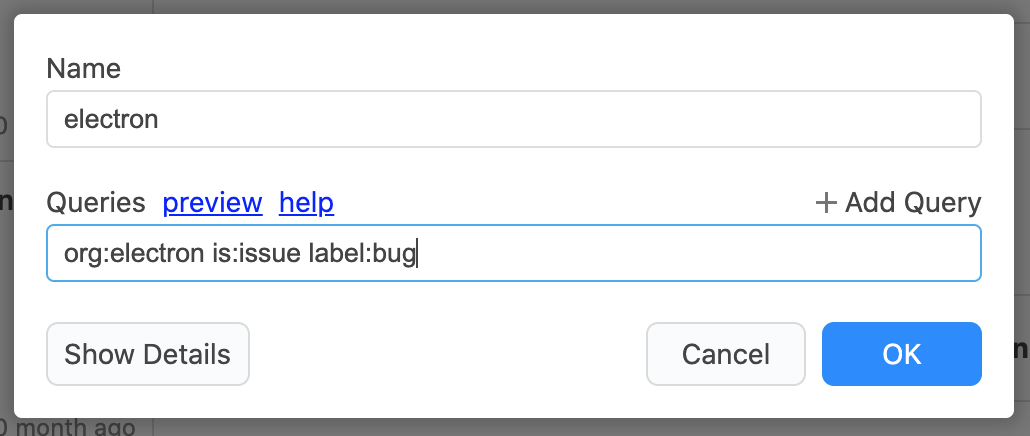
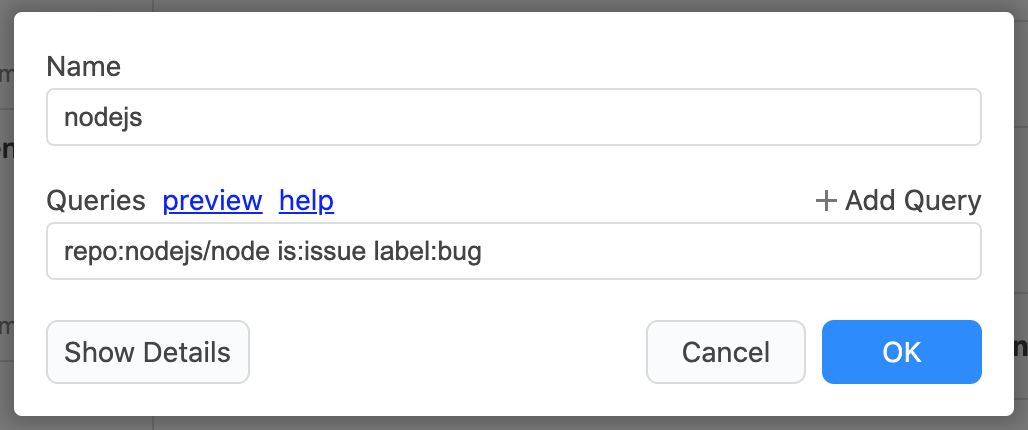
fix:

diff --git a/index.html b/index.html
@@ -64,7 +64,7 @@
       background: #214b8c;
       font-size: 0.85em;
       position: absolute;
-      left: 2em;
+      left: 1.5em;
     }
 
     .features {
@@ -197,7 +197,7 @@
   </p>
   <p class="stream-sample">
     <span class="label">example</span>
-    <span>org:electron is:issue label:bug</span>
+    <span>repo:nodejs/node is:issue label:bug</span>
   </p>
 </div>
 
@@ -211,6 +211,7 @@
         You can use the <a href="https://docs.github.com/en/free-pro-team@latest/github/searching-for-information-on-github/searching-issues-and-pull-requests">GitHub Search</a>
         query to create various criteria, such as <span class="code">issues I created</span>, <span class="code">pull requests of nodejs/node</span>,
         <span class="code">bug labeled issues</span>, etc. to view issues and receive update notifications
+<!--        GitHub Searchクエリを使って「自分が作成したissue」「nodejs/nodeのpr」「bugラベルがついたissue」など、様々な条件を作成して、issueを閲覧したり更新通知を受け取ることができます-->
         <br/>
         <img src="./image/top/stream_editor.png"/>
       </div>
@@ -219,17 +220,19 @@
     <div class="feature">
       <div class="feature-title"><span class="mdi mdi-clipboard-check"></span>Unread Management</div>
       <div class="feature-desc">
-        Unread issues, as well as unread issue comments and review comments, are highlighted in an easy to understand manner.
-        Unread comments are also displayed on a mini-map, making it easy to keep track of the entire issue.
+        In addition to unread issues, unread issue comments and review comments are highlighted in a clear and easy to understand manner.
+        Unread comments are also displayed on a mini-map to help you keep track of the entire issue.
+<!--        未読のissueだけでなく、未読のissueコメントやレビューコメントも分かりやすくハイライトされます。また、未読コメントはミニマップ表示され、issue全体を把握しやすくなります。-->
         <img src="./image/top/highlight_comment.png"/>
       </div>
     </div>
 
     <div class="feature">
-      <div class="feature-title"><span class="mdi mdi-information"></span>Issues/PRs information</div>
+      <div class="feature-title"><span class="mdi mdi-information"></span>Issues/PRs Information</div>
       <div class="feature-desc">
         Quickly see the issue's open/close, label, milestones and assignments.
         It also shows the review status of the pull request (approved, request changed, commented) along with the reviewer.
+<!--        issueのopen/close、ラベル、マイルストーン、アサインなどがひと目でわかります。またプルリクエストのレビュー状況(approve, change, comment)をレビュアーと一緒に表示します。-->
         <img src="./image/top/issue_info.png">
       </div>
     </div>
@@ -238,16 +241,19 @@
       <div class="feature-title"><span class="mdi mdi-magnify"></span>Searching</div>
       <div class="feature-desc">
         You can search for locally stored issues with a subset of the GitHub Search query.
-        In addition to searching for issues, this can also be used for navigation within jasper.
+        In addition to searching for issues, this can also be used for navigation within Jasper.
+<!--        ローカルに保存したissueを素早く検索することができます。検索にはGitHub Search クエリのサブセットを使うことができます。また、issueの検索だけではなく、Jasper内のナビゲーションとしても使えます。-->
         <img src="./image/top/search.png">
       </div>
     </div>
 
     <div class="feature">
-      <div class="feature-title"><span class="mdi mdi-github"></span>Integration with GitHub features</div>
+      <div class="feature-title"><span class="mdi mdi-github"></span>Integration with GitHub Features</div>
       <div class="feature-desc">
-        Integration with GitHub Notifications allows issues viewed on your phone to be synced to Jasper.
-        You can also integrate with GitHub Projects to use the Project Board (Kanban) in Jasper, as well as Team and Watching.
+        Integration with GitHub Notifications allows issues viewed on your smartphone to be synced to Jasper.
+        Alternatively, you can integrate with GitHub Projects to use the Project Board (Kanban) in Jasper.
+        You can also integrate with team and watching.
+<!--        GitHub Notificationと連携することによりスマートフォンで閲覧したissueがJasperにも同期されます。そのほかにもGitHub  Projectsと連携することでJasperでプロジェクトボード(Kanban)を使えます。そのほか team, watchingと連携することもできます。-->
         <img src="./image/top/github-projects.png">
       </div>
     </div>
@@ -257,6 +263,7 @@
       <div class="feature-desc">
         You can do a variety of things with just your keyboard, including moving through the issue list, browsing, viewing unread, and saving bookmarks.
         Keyboard shortcuts can also be customized (Mac only).
+<!--        キーボードだけでissueリストの移動、閲覧、未読表示、ブックマーク保存など、様々なことができます。キーボードショートカットはカスタマイズも可能です(Macのみ)。-->
         <img src="./image/top/keyboard.png">
       </div>
     </div>
